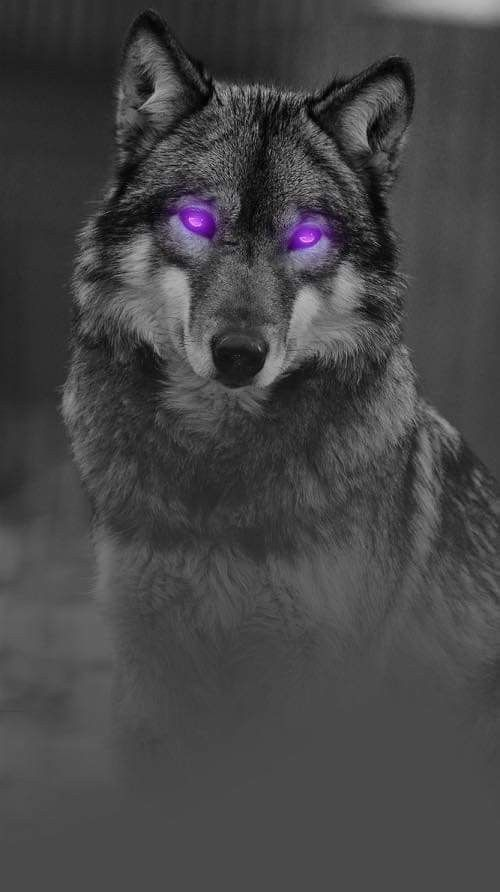
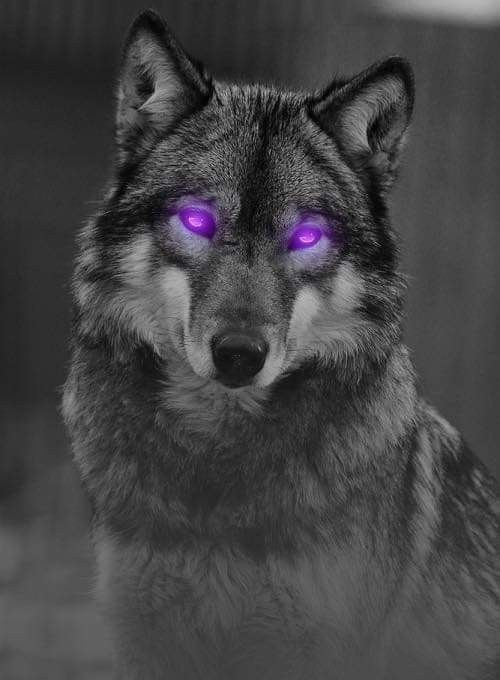
"Changes in the navigation part one

diff --git a/styles/main.css b/styles/main.css
@@ -11,7 +11,6 @@
 
 /*-- NAVIGATION--*/
 nav {
-  background-color: #110808;
   padding: 40px 0;
   display: flex;
   justify-content: start;
@@ -21,12 +20,62 @@ nav {
 nav:first-child {
   padding-left: 70px;
 }
+nav:last-child {
+  margin-left: auto;
+}
 
 .a-nav {
   font-size: 24px;
   font-weight: 600;
   text-decoration: none;
   color: #1d1a58;
+}
+
+.a-nav:hover {
+  color: #fff;
+  text-shadow: 0 0 10px #a248d3, 0 0 20px #a248d3, 0 0 40px #a248d3;
+}
+
+.a-nav:active {
+  color: #7022f8;
+}
+
+/*--BODY--*/
+
+header,
+section,
+nav {
+  background-color: #0d0101;
+}
+
+header h1,
+header p {
+  color: #dfd4ff;
+}
+
+header h1 {
+  font-size: 52px;
+  letter-spacing: 2.5px;
+  word-spacing: 4px;
+  padding-top: 32px;
+}
+
+header p {
+  font-size: 24px;
+  line-height: 1.5;
+}
+
+header {
+  padding: 50px;
+
+  display: flex;
+  align-content: center;
+  gap: 30px;
+}
+
+.wolf {
+  height: 700px;
+  width: auto;
 }
 
 /*FOOTER
@@ -37,7 +86,7 @@ text color: #515151
 */
 
 footer {
-  background-color: #110808;
+  background-color: #060000;
 }
 
 .flex-container {

diff --git a/main.html b/main.html
@@ -32,14 +32,16 @@
     </nav>
     <!--MAIN TITLE-->
     <header>
-      <title>
-        Surreal sci-fi Movies and Series to enjoy with your best company!!
-      </title>
-      <p>
-        The movies and series presented on this page are chosen according to my
-        personal criteria. I hope they are also to your liking
-      </p>
-      <img src="imgs/wolf purple eyes.jpg" alt="wolf" />
+      <div class="title">
+        <h1>
+          Surreal sci-fi Movies and Series to enjoy with your best company!!
+        </h1>
+        <p>
+          The movies and series presented on this page are chosen according to my
+          personal criteria. I hope they are also to your liking
+        </p>
+      </div>
+      <img class="wolf" src="imgs/wolf purple eyes.jpg" alt="wolf" />
     </header>
 
     <!--CONTENT-->
